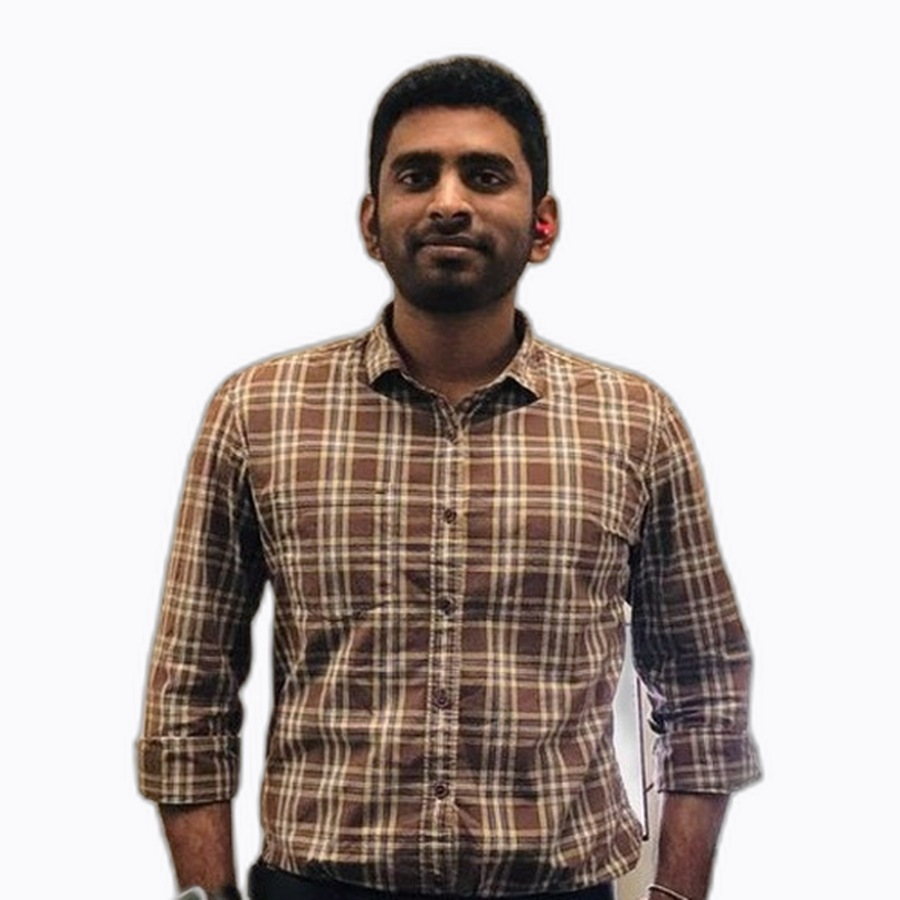
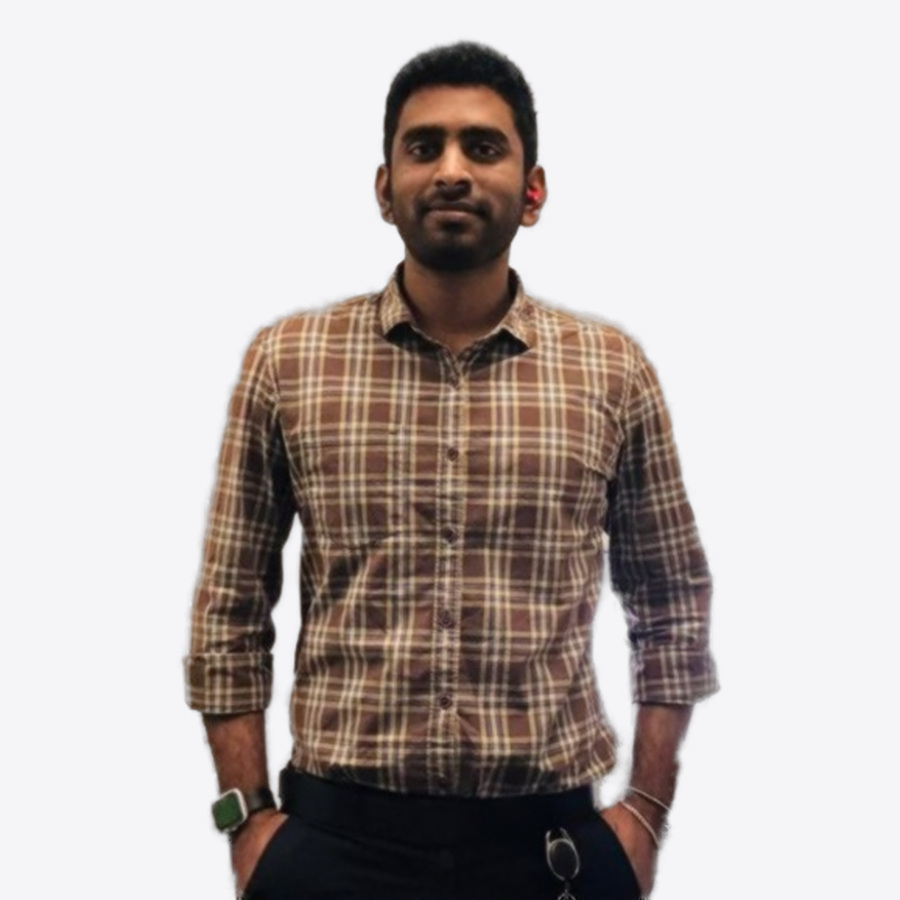
Fix profile photo: remove office/monitor background with clean light backdrop.

diff --git a/src/app/page.tsx b/src/app/page.tsx
@@ -703,7 +703,7 @@ const Header = () => {
 
 const Hero = () => {
   const [imageError, setImageError] = useState(false);
-  const profileImage = '/profile_picture.jpg';
+  const profileImage = '/profile_picture.jpg?v=3';
 
   return (
     <section className="theme-hero min-h-screen flex items-center relative overflow-hidden pt-24 lg:pt-20">